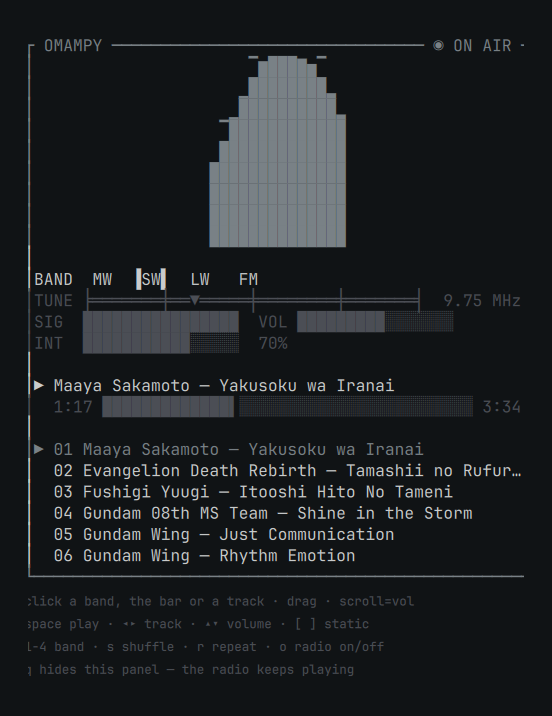
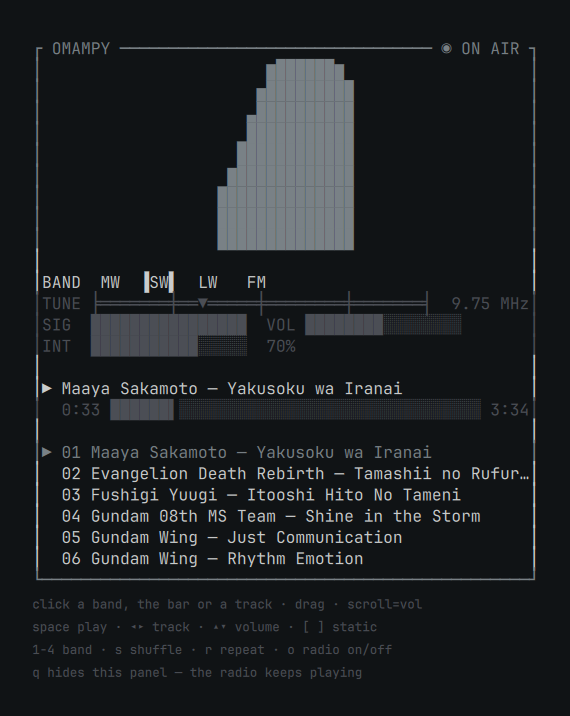
1.0.1: say what the plugin is, and end the standby dead end
Three changes and a version bump.

The marketplace description led with the metaphor: "A 1980s AM/shortwave
receiver for your local audio files, drawn in block glyphs". A reader
scanning a directory of 1300 plugins cannot tell from that whether this plays
music. It now says so first: "A local music player that makes your files
sound like a 1980s MW/SW radio broadcast."

A receiver that is on air with nothing loaded showed "— no signal —", which
reports the state and leaves the reader with no next action. It now says what
to do, and the two causes get different answers. With files in the playlist
it reads "push space to play". With an empty playlist that instruction would
be a dead end, so it names the cause instead: no files, check "library" in
config.json. The count is already in the frame, so this is a pure function
and seven tests cover it.

preview.png was cropped about one character too tight on the left, which cut
the first letter from every line of the caption under the frame. Comparing
the served card against the local file showed 49 differing pixels, all webp
compression, so the fault was in the file and not in the marketplace
pipeline. Recaptured with the whole card inside the crop.

Also corrects the test count in the README, which still said 477 after the
security fix took it to 490.

497 tests.

Claude-Session: https://claude.ai/code/session_01FFEpWdj3wXKoNhdQQyYrWd

Changed region(s): [[0.0308, 0.0307, 0.9547, 0.9525]]

diff --git a/tests/test_player.py b/tests/test_player.py
@@ -188,6 +188,44 @@ class StatusTests(unittest.TestCase):
                          set(player.status_from_props(PLAYING, settings())))
 
 
+class IdleMessageTests(unittest.TestCase):
+    """What the console says when the receiver is on and plays nothing."""
+
+    def test_a_loaded_playlist_gets_an_instruction(self):
+        self.assertEqual(player.idle_message({"count": 15}), player.IDLE_READY)
+
+    def test_an_empty_playlist_names_the_cause(self):
+        # "push space" would be a dead end here: there is nothing to play.
+        self.assertEqual(player.idle_message({"count": 0}), player.IDLE_NO_FILES)
+        self.assertIn("library", player.idle_message({"count": 0}))
+
+    def test_a_missing_count_is_treated_as_empty(self):
+        for status in ({}, {"count": None}, {"count": "nonsense"}):
+            self.assertEqual(player.idle_message(status), player.IDLE_NO_FILES)
+
+    def test_both_messages_fit_a_default_console(self):
+        inner = player.DEFAULT_WIDTH - 2
+        for message in (player.IDLE_READY, player.IDLE_NO_FILES):
+            self.assertLessEqual(render.display_width(message), inner - 3)
+
+    def test_the_console_shows_the_instruction_when_idle_with_files(self):
+        status = player.status_from_props({"idle-active": True, "playlist-count": 9},
+                                          settings())
+        self.assertEqual(status["state"], player.STATE_IDLE)
+        self.assertIn(player.IDLE_READY, player.console(status, [0.0] * 14)["nowPlaying"])
+
+    def test_the_console_names_the_cause_when_the_library_is_empty(self):
+        status = player.status_from_props({"idle-active": True, "playlist-count": 0},
+                                          settings())
+        self.assertIn("library", player.console(status, [0.0] * 14)["nowPlaying"])
+
+    def test_a_playing_track_is_never_replaced_by_the_message(self):
+        status = player.status_from_props(PLAYING, settings())
+        now = player.console(status, [0.0] * 14)["nowPlaying"]
+        self.assertIn("Trio", now)
+        self.assertNotIn(player.IDLE_READY, now)
+
+
 class PlaylistWindowTests(unittest.TestCase):
     def test_an_empty_playlist_shows_nothing(self):
         self.assertEqual(player.playlist_window([], 0, 5), [])

diff --git a/omampy/player.py b/omampy/player.py
@@ -234,6 +234,22 @@ ROW_TRACK = "track"
 # Columns in the bar widget's miniature spectrum.
 MINI_COLUMNS = 7
 
+# What the console says when the receiver is on but plays nothing. The two
+# causes need different answers: with files in the playlist the operator has
+# something to do, and with an empty playlist that same instruction would be
+# a dead end.
+IDLE_READY = "push space to play"
+IDLE_NO_FILES = 'no files — check "library" in config.json'
+
+
+def idle_message(status: dict) -> str:
+    """The line to show for a receiver that is on air with nothing loaded."""
+    try:
+        count = int(status.get("count") or 0)
+    except (TypeError, ValueError):
+        count = 0
+    return IDLE_READY if count > 0 else IDLE_NO_FILES
+
 
 def console(status: dict, values: Sequence[float], peaks: Sequence[float] | None = None,
             *, tracks: Sequence = (), width: int = DEFAULT_WIDTH, height: int = 8,
@@ -275,7 +291,7 @@ def console(status: dict, values: Sequence[float], peaks: Sequence[float] | None
                      + "  %d%%" % round(status.get("intensity", 0) * 100))
 
     state = status.get("state", STATE_STOPPED)
-    now = status.get("display") or ("— no signal —" if state == STATE_IDLE else "—")
+    now = status.get("display") or (idle_message(status) if state == STATE_IDLE else "—")
     marker = {STATE_PLAYING: "▶", STATE_PAUSED: "▮▮"}.get(state, "■")
     now_row = "%s %s" % (marker, render.marquee(now, max(1, inner - 3), offset))
 

diff --git a/omampy/__init__.py b/omampy/__init__.py
@@ -8,7 +8,7 @@ models, the libavfilter graph we hand to mpv, the noise bed we synthesise, the
 metering maths, and the block-glyph rendering that draws the console.
 """
 
-__version__ = "1.0.0"
+__version__ = "1.0.1"
 
 APP_NAME = "omampy"
 PLUGIN_ID = "asfarsadewa.omampy"

diff --git a/README.md b/README.md
@@ -361,7 +361,7 @@ Run the tests:
 ```
 
 The tests use the `unittest` module of the Python standard library. The tests
-do not need mpv, an audio device or a network connection. There are 477 tests.
+do not need mpv, an audio device or a network connection. There are 497 tests.
 
 The tests examine these items:
 
